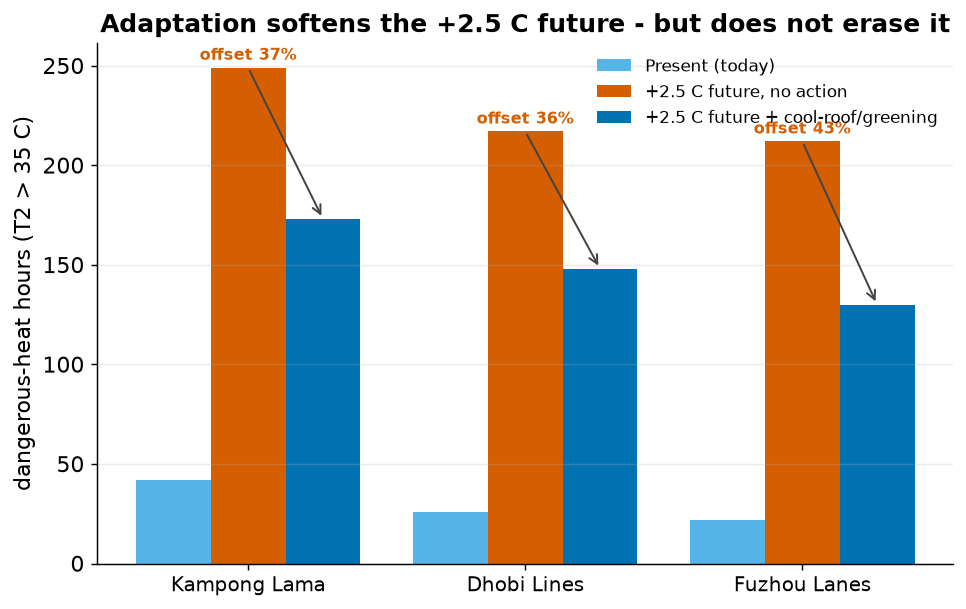
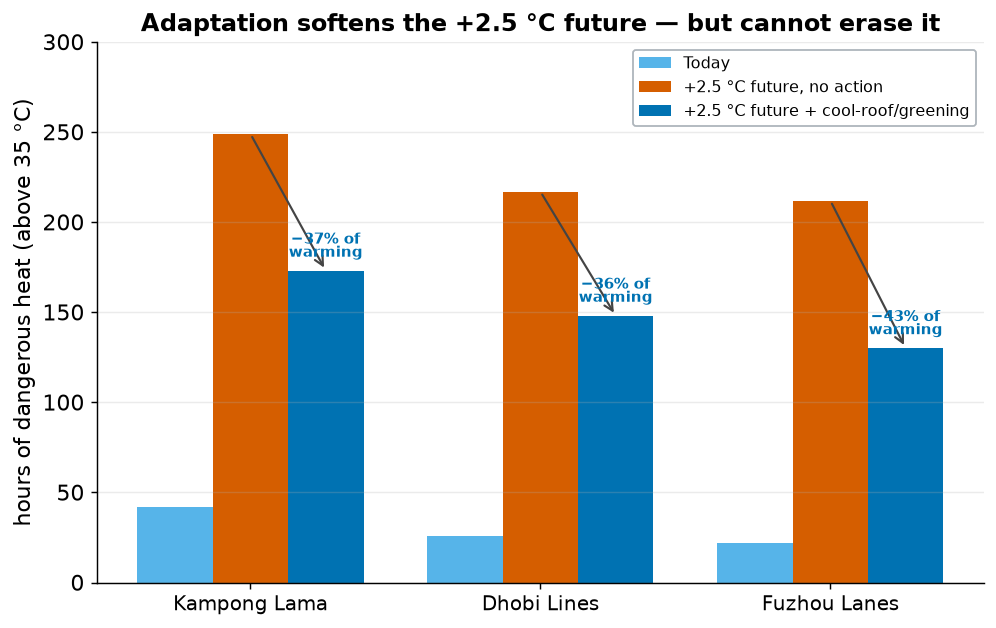
§4: add 'why these levers' reasoning (SUEWS energy balance) + intervention comparison table (cool-roof vs greening vs combined); fix fig7 label/legend collision (img ?v=2)

diff --git a/docs/index.html b/docs/index.html
@@ -262,6 +262,33 @@
      which is what cools the street. Dangerous-heat hours drop <span class="stat">42→17</span>
      (Kampong Lama, −60%), <span class="stat">26→9</span> (Dhobi Lines, −65%) and
      <span class="stat">22→6</span> (Fuzhou Lanes, −73%).</p>
+
+  <h3>Why these two levers — and which works best?</h3>
+  <p>SUEWS solves the surface <strong>energy balance</strong>, and two things dominate how hot the air gets:
+     the sunlight a surface <em>absorbs</em> (set by its <strong>albedo</strong> — how reflective it is) and
+     how much energy goes into <em>evaporating water</em> instead of heating the air (set by
+     <strong>vegetation</strong>). The hotspots are weak on exactly these — dark surfaces (albedo&nbsp;0.20),
+     barely any greenery (~5% vegetation), heavy paving — so cool roofs/pavements and street greening are the
+     two highest-leverage changes a city could make to an existing informal settlement <em>without demolition</em>.
+     (The intervention is <strong>our choice</strong> — the hackathon invites it — but it targets the model's
+     two biggest physical levers; it is not prescribed by the dataset.) We then tested each lever separately
+     in SUEWS:</p>
+  <table>
+    <thead><tr><th>Intervention (tested in SUEWS)</th><th>What we changed</th><th>Dangerous-hours change*</th></tr></thead>
+    <tbody>
+      <tr><td><strong>Cool roofs + cool pavements</strong></td><td>albedo 0.20 → 0.60 (roofs) / 0.40 (pavements)</td><td class="stat" style="color:#0072B2;font-weight:700">−69 to −82% (best)</td></tr>
+      <tr><td>Street greening only</td><td>+ grass &amp; trees, less paving</td><td class="stat" style="color:#D55E00">+10 to +27% (slightly worse)</td></tr>
+      <tr><td>Both combined <em>(our package)</em></td><td>albedo ↑ <em>and</em> greening</td><td class="stat" style="font-weight:700">−60 to −73%</td></tr>
+    </tbody>
+  </table>
+  <p class="lede" style="margin-top:-4px">*across the three treated settlements (full method &amp; figures on the
+     <a href="deeper-analysis.html">Deeper analysis page</a>).</p>
+  <p><strong>The surprise:</strong> cool roofs do nearly all the cooling; <em>greening alone slightly raises</em>
+     air temperature here, because the dataset's evergreen trees are <strong>darker (albedo 0.14)</strong> than
+     the pavement they replace, and evaporation is water-limited. Trees still matter for <strong>shade and
+     comfort</strong> (which air temperature can't capture) — but for cutting the dangerous-hour count, the
+     reflective surfaces are the lever. The evidence-led optimum is therefore <strong>cool roofs + cool
+     pavements</strong>.</p>
   <div class="callout">
     <strong>A scoring caution worth shouting about.</strong> The <em>relative</em> risk index barely moves
     after this intervention — Kampong Lama stays pinned at 1.00 — even though its real danger fell 60%. That
@@ -274,7 +301,7 @@
   <p class="lede">The decisive question for planning: if we deploy cool roofs + greening <em>and</em> the
      climate warms +2.5&nbsp;°C, where do the three hotspots land?</p>
   <figure>
-    <img src="figs/fig7_future_intervention.png" alt="For each treated hotspot, three bars: present today, the much taller +2.5°C future with no action, and a shorter but still-tall future-with-adaptation bar — adaptation removes only 36–43% of the warming-driven increase.">
+    <img src="figs/fig7_future_intervention.png?v=2" alt="For each treated hotspot, three bars: present today, the much taller +2.5°C future with no action, and a shorter but still-tall future-with-adaptation bar — adaptation removes only 36–43% of the warming-driven increase.">
     <figcaption>Present (today) vs the +2.5&nbsp;°C future with no action vs the future with cool roofs +
       greening. Adaptation removes only <strong>36–43%</strong> of the warming-driven rise in dangerous
       hours — and the adapted future still sits far above today.</figcaption>

diff --git a/scripts/reproduce.py b/scripts/reproduce.py
@@ -282,21 +282,23 @@ def _figures(P, F, H, I):
 
 
 def _fig7(off):
-    # present baseline vs future (no action) vs future + intervention, treated grids
-    x = np.arange(len(off)); w = 0.27
-    fig, ax = plt.subplots(figsize=(8.5, 5.2))
-    ax.bar(x - w, off.present_base, w, label="Present (today)", color=SKY)
+    # present vs future (no action) vs future + intervention; offset labels above the blue bars
+    x = np.arange(len(off)); w = 0.26
+    fig, ax = plt.subplots(figsize=(8.8, 5.4))
+    ax.bar(x - w, off.present_base, w, label="Today", color=SKY)
     ax.bar(x, off.future_base, w, label="+2.5 C future, no action", color=VERM)
     ax.bar(x + w, off.future_intv, w, label="+2.5 C future + cool-roof/greening", color=BLUE)
     for xi, r in off.reset_index(drop=True).iterrows():
-        ax.text(xi, r.future_base + 4, f"offset {r.offset_pct:.0f}%", ha="center",
-                fontsize=9, color=VERM, fontweight="bold")
         ax.annotate("", xy=(xi + w, r.future_intv), xytext=(xi, r.future_base),
-                    arrowprops=dict(arrowstyle="->", color="#444", lw=1.1))
+                    arrowprops=dict(arrowstyle="->", color="#444", lw=1.2))
+        ax.text(xi + w, r.future_intv + 6, f"-{r.offset_pct:.0f}% of\nwarming", ha="center", va="bottom",
+                fontsize=8.5, color=BLUE, fontweight="bold", linespacing=.95)
     ax.set_xticks(x); ax.set_xticklabels(off.name, fontsize=11)
-    ax.set_ylabel("dangerous-heat hours (T2 > 35 C)")
-    ax.set_title("Adaptation softens the +2.5 C future - but does not erase it")
-    ax.legend(frameon=False, fontsize=9.5); ax.grid(alpha=.25, axis="y")
+    ax.set_ylabel("hours of dangerous heat (above 35 C)")
+    ax.set_title("Adaptation softens the +2.5 C future - but cannot erase it")
+    ax.set_ylim(0, 300)
+    ax.legend(loc="upper right", frameon=True, fontsize=8.8).get_frame().set_edgecolor("#9aa3ab")
+    ax.grid(alpha=.25, axis="y")
     fig.savefig(FIGS / "fig7_future_intervention.png"); plt.close(fig)
 
 